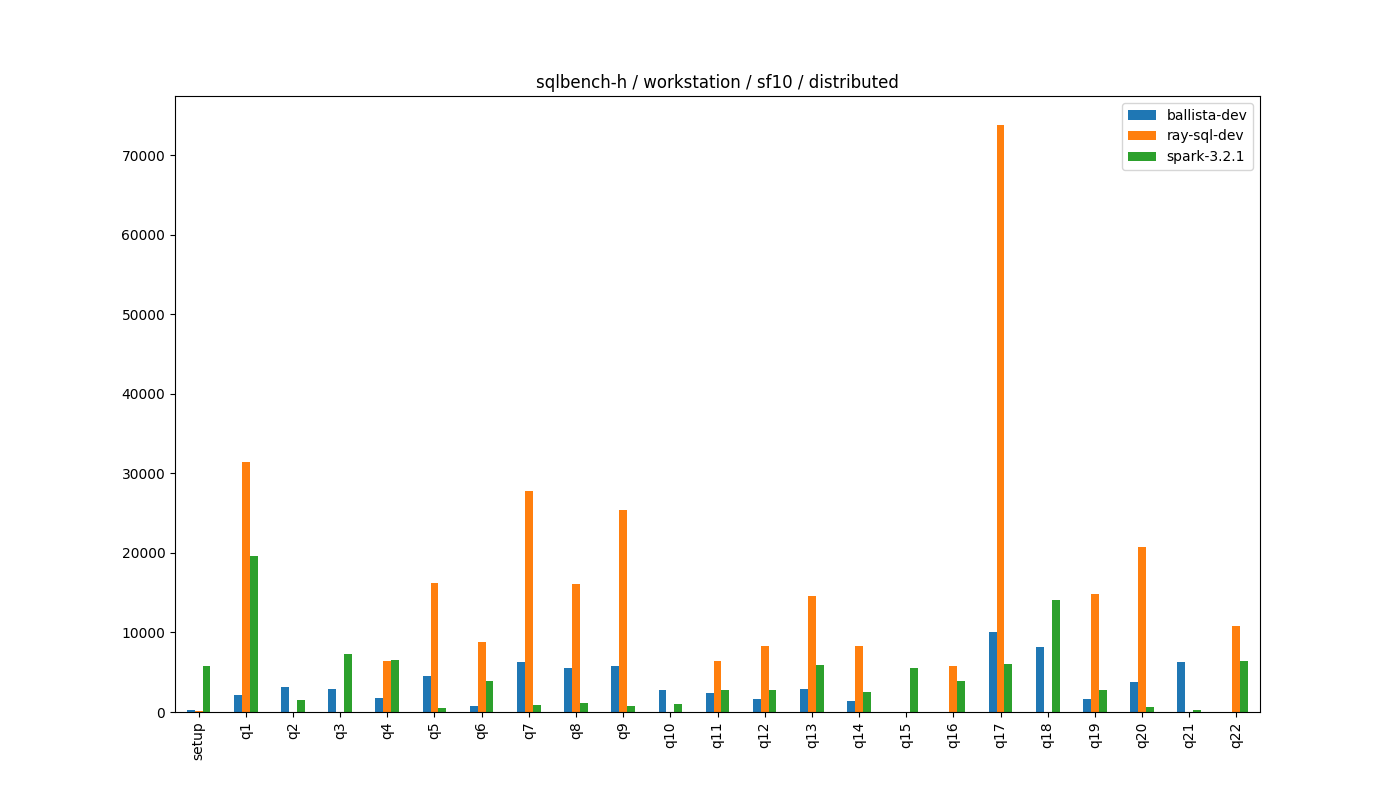
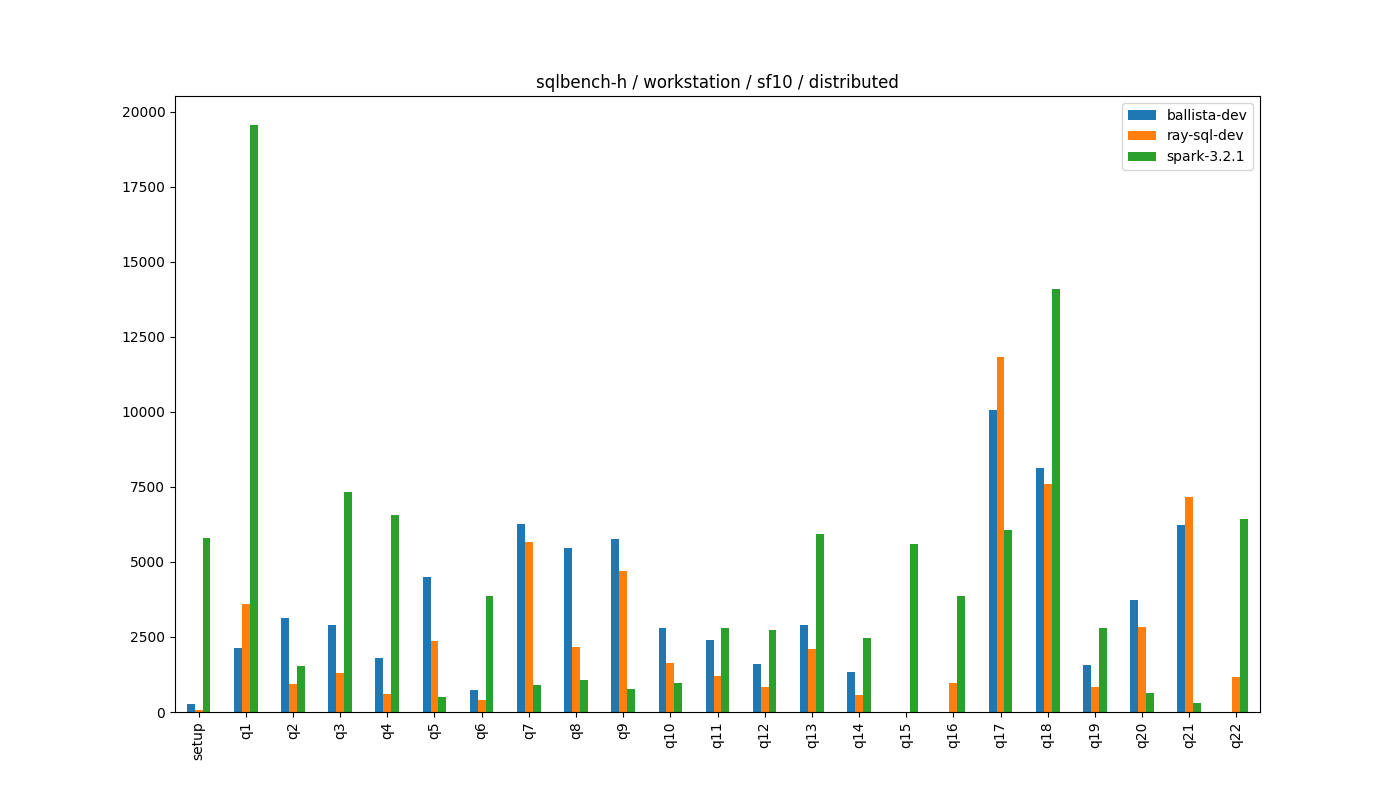
better perf

diff --git a/src/planner.rs b/src/planner.rs
@@ -9,6 +9,7 @@ use pyo3::prelude::*;
 use std::collections::HashMap;
 use std::sync::atomic::{AtomicUsize, Ordering};
 use std::sync::Arc;
+use datafusion::physical_plan::sorts::sort_preserving_merge::SortPreservingMergeExec;
 use uuid::Uuid;
 
 #[pyclass(name = "ExecutionGraph", module = "raysql", subclass)]
@@ -201,6 +202,12 @@ fn generate_query_stages(
     } else if plan
         .as_any()
         .downcast_ref::<CoalescePartitionsExec>()
+        .is_some()
+    {
+        create_shuffle_exchange(plan.as_ref(), graph, Partitioning::UnknownPartitioning(1))
+    } else if plan
+        .as_any()
+        .downcast_ref::<SortPreservingMergeExec>()
         .is_some()
     {
         create_shuffle_exchange(plan.as_ref(), graph, Partitioning::UnknownPartitioning(1))
@@ -414,7 +421,9 @@ mod test {
             ));
         }
         let expected_file = format!("testdata/expected-plans/q{n}.txt");
-        //fs::write(&expected_file, &output)?;
+        if !Path::new(&expected_file).exists() {
+            fs::write(&expected_file, &output)?;
+        }
         let expected_plan = fs::read_to_string(&expected_file)?;
         assert_eq!(expected_plan, output);
         Ok(())

diff --git a/README.md b/README.md
@@ -26,7 +26,7 @@ ctx.sql('select sex, smoker, avg(tip/total_bill) as tip_pct from tips group by s
 
 ## Status
 
-- Partially working. Can run 16 of the 22 TPC-H benchmark queries.
+- RaySQL can run 21 of the 22 TPC-H benchmark queries (query 15 needs DDL and that is not yet supported).
 
 ## Features
 
@@ -41,8 +41,7 @@ ctx.sql('select sex, smoker, avg(tip/total_bill) as tip_pct from tips group by s
 
 This chart shows the relative performance of RaySQL compared to other open-source distributed SQL frameworks.
 
-Performance does not look very promising so far, but this project was created in one weekend, so this is probably not 
-too bad a start.
+Performance is looking pretty respectable!
 
 ![SQLBench-H Performance Chart](./docs/sqlbench-h-workstation-10-distributed-perquery.png)
 
@@ -72,10 +71,7 @@ python -m pytest
 Create a release build when running benchmarks, then use pip to install the wheel.
 
 ```bash
-cargo clean
-maturin develop
-maturin build --release
-pip install ./target/wheels/raysql-0.1.0-cp37-abi3-manylinux_2_31_x86_64.whl --force-reinstall
+maturin develop --release
 ```
 
 ## How to update dependencies
